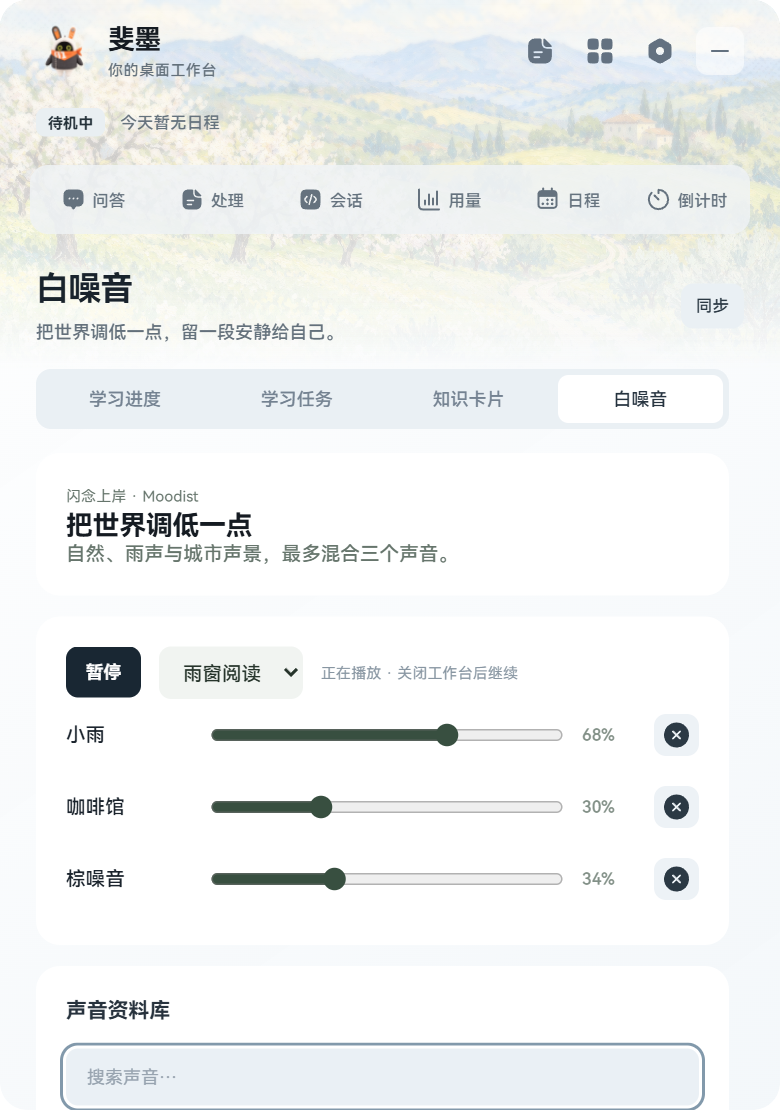
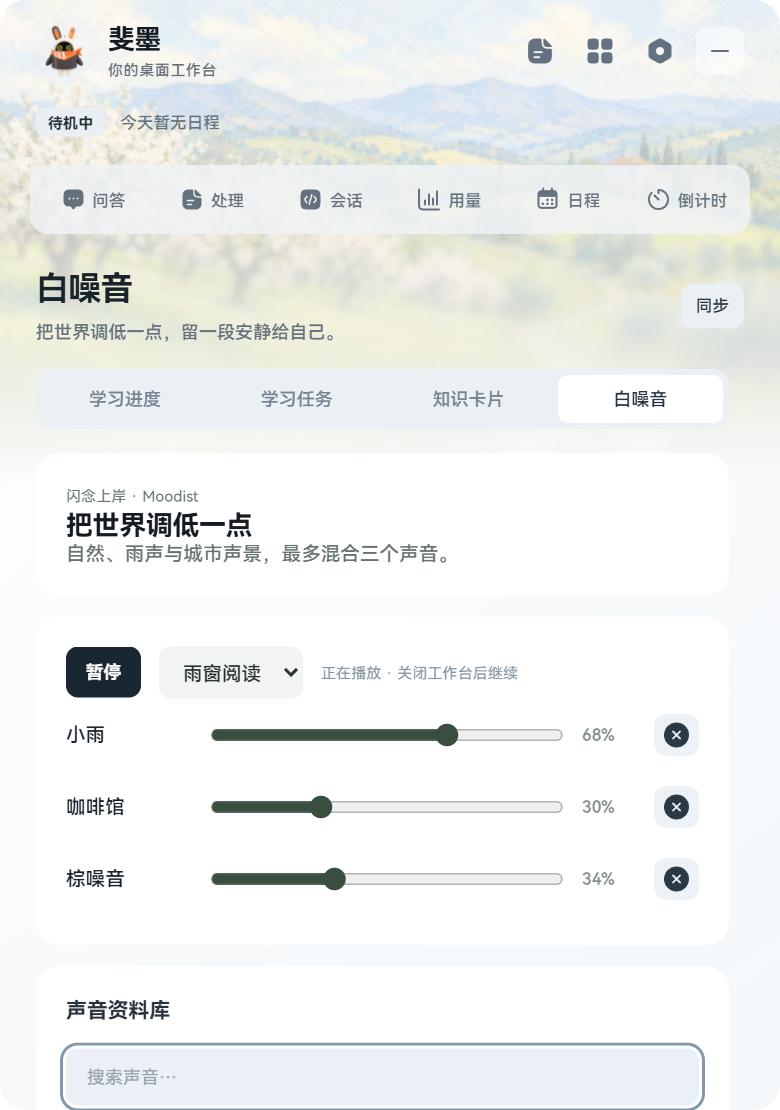
Add progressive header blur, repair packaged OCR and document default UI

Changed region(s): [[0.0, 0.0, 1.0, 0.3676], [0.5846, 0.1838, 0.6462, 0.245], [0.2769, 0.0306, 0.3077, 0.0613]]

diff --git a/lib/ocr.js b/lib/ocr.js
@@ -9,13 +9,15 @@ const fs = require('fs');
 const path = require('path');
 const crypto = require('crypto');
 
-const MAX_DIM = 10000; // Windows OCR MaxImageDimension
+const MAX_DIM = 4096; // Conservative cap; the bridge also validates OcrEngine.MaxImageDimension.
 
 class OcrService {
   constructor({ workDir }) {
     this.workDir = workDir;
     fs.mkdirSync(workDir, { recursive: true });
-    this.script = path.join(__dirname, '..', 'assets', 'scripts', 'ocr.ps1');
+    // Node can read inside app.asar; Windows PowerShell cannot execute that virtual path.
+    this.script = path.join(workDir, 'windows-ocr.ps1');
+    fs.copyFileSync(path.join(__dirname, '..', 'assets', 'scripts', 'ocr.ps1'), this.script);
     // 清理遗留临时文件
     for (const f of fs.readdirSync(workDir)) {
       if (f.startsWith('ocr-')) { try { fs.unlinkSync(path.join(workDir, f)); } catch { /* ignore */ } }
@@ -34,14 +36,13 @@ class OcrService {
       if (!meta.width || !meta.height) {
         throw Object.assign(new Error('无法读取图片：格式不受支持或文件损坏'), { code: 'BAD_IMAGE' });
       }
-      let scale = 1;
-      if (Math.max(meta.width, meta.height) > MAX_DIM) {
-        scale = MAX_DIM / Math.max(meta.width, meta.height);
-      }
-      await img.flatten({ background: '#ffffff' }).png().toFile(inPath);
+      await img.rotate().resize({ width: MAX_DIM, height: MAX_DIM, fit: 'inside', withoutEnlargement: true })
+        .flatten({ background: '#ffffff' }).png().toFile(inPath);
+      const prepared = await sharp(inPath).metadata();
 
       const args = ['-NoProfile', '-NonInteractive', '-ExecutionPolicy', 'Bypass', '-File', this.script,
-        '-ImagePath', inPath, '-OutFile', outPath, '-Lang', lang === 'auto' ? '' : lang];
+        '-ImagePath', inPath, '-OutFile', outPath];
+      if (lang && lang !== 'auto') args.push('-Lang', lang);
       await this._runPowerShell(args);
 
       let raw;
@@ -55,12 +56,12 @@ class OcrService {
         throw err;
       }
       const lines = (result.lines || []).map((l) => ({
-        text: l.text, x: l.x * scale, y: l.y * scale, w: l.w * scale, h: l.h * scale,
+        text: l.text, x: l.x, y: l.y, w: l.w, h: l.h,
       }));
       if (!lines.length) {
         return { ok: true, empty: true, lines: [], language: result.language, note: '未在图片中检测到文字' };
       }
-      return { ok: true, empty: false, lines, language: result.language, width: Math.round(meta.width * scale), height: Math.round(meta.height * scale) };
+      return { ok: true, empty: false, lines, language: result.language, width: prepared.width, height: prepared.height };
     } finally {
       for (const f of [inPath, outPath]) { try { fs.unlinkSync(f); } catch { /* ignore */ } }
     }
@@ -69,7 +70,7 @@ class OcrService {
   _runPowerShell(args) {
     return new Promise((resolve, reject) => {
       execFile('powershell.exe', args, { timeout: 60000, windowsHide: true, maxBuffer: 10 * 1024 * 1024 }, (err) => {
-        if (err) reject(new Error('OCR 调用失败：' + err.message));
+        if (err) reject(Object.assign(new Error(err.killed ? '图片识别超时，请使用更小、更清晰的图片重试' : '本地 OCR 桥接进程无法运行，请检查 Windows PowerShell 是否可用'), { code: err.killed ? 'OCR_TIMEOUT' : 'OCR_BRIDGE' }));
         else resolve();
       });
     });

diff --git a/tests/ocr.test.js b/tests/ocr.test.js
@@ -1,0 +1,18 @@
+'use strict';
+const test=require('node:test'),assert=require('node:assert/strict'),fs=require('node:fs'),os=require('node:os'),path=require('node:path'),sharp=require('sharp');
+const {OcrService}=require('../lib/ocr');
+const temp=()=>fs.mkdtempSync(path.join(os.tmpdir(),'feimo-ocr-test-'));
+test('OCR bridge executes a physical script outside asar and omits empty auto-language arguments',async()=>{
+ const dir=temp();try{const s=new OcrService({workDir:dir});assert.ok(fs.existsSync(s.script));assert.equal(path.dirname(s.script),dir);
+ s._runPowerShell=async args=>{assert.ok(!args.includes('-Lang'));const image=await sharp(args[args.indexOf('-ImagePath')+1]).metadata();assert.equal(image.width,80);fs.writeFileSync(args[args.indexOf('-OutFile')+1],JSON.stringify({ok:true,language:'zh-Hans-CN',lines:[{text:'测试',x:5,y:6,w:20,h:12}]}))};
+ const r=await s.recognize(await sharp({create:{width:80,height:40,channels:4,background:'#fff'}}).png().toBuffer());assert.equal(r.lines[0].text,'测试');assert.equal(r.width,80);assert.deepEqual(fs.readdirSync(dir),['windows-ocr.ps1']);
+ }finally{fs.rmSync(dir,{recursive:true,force:true})}
+});
+test('oversized OCR images really shrink and boxes use prepared image coordinates',async()=>{
+ const dir=temp();try{const s=new OcrService({workDir:dir});s._runPowerShell=async args=>{const meta=await sharp(args[args.indexOf('-ImagePath')+1]).metadata();assert.equal(meta.width,4096);fs.writeFileSync(args[args.indexOf('-OutFile')+1],JSON.stringify({ok:true,lines:[{text:'文字',x:100,y:10,w:30,h:12}]}))};const r=await s.recognize(await sharp({create:{width:5000,height:100,channels:3,background:'#fff'}}).png().toBuffer());assert.equal(r.width,4096);assert.equal(r.lines[0].x,100);
+ }finally{fs.rmSync(dir,{recursive:true,force:true})}
+});
+test('OCR language errors stay distinct from process failures and temporary image data is removed',async()=>{
+ const dir=temp();try{const s=new OcrService({workDir:dir});s._runPowerShell=async args=>{assert.equal(args.at(-1),'en');fs.writeFileSync(args[args.indexOf('-OutFile')+1],JSON.stringify({ok:false,error:'NO_LANGPACK: en'}))};await assert.rejects(s.recognize(await sharp({create:{width:10,height:10,channels:3,background:'#fff'}}).png().toBuffer(),'en'),e=>e.code==='NO_LANGPACK');assert.deepEqual(fs.readdirSync(dir),['windows-ocr.ps1']);
+ }finally{fs.rmSync(dir,{recursive:true,force:true})}
+});

diff --git a/renderer/shared/feimo-design.css b/renderer/shared/feimo-design.css
@@ -1,0 +1,29 @@
+/* Feimo default design primitives. Artwork is separate from all readable content. */
+:root {
+  --feimo-font: "HarmonyOS Sans SC", "HarmonyOS Sans", "Microsoft YaHei UI", system-ui, sans-serif;
+  --feimo-ink: #1b242d;
+  --feimo-secondary: #63707b;
+  --feimo-muted: #87939d;
+  --feimo-surface: #fff;
+  --feimo-canvas: #f5f8fa;
+  --feimo-control: #eaf0f4;
+  --feimo-radius-small: 4px;
+  --feimo-radius-tag: 6px;
+  --feimo-radius-control: 8px;
+  --feimo-radius-group: 12px;
+  --feimo-radius-card: 16px;
+  --feimo-radius-window: 18px;
+  --feimo-radius-sheet: 21px;
+  --feimo-header-image: url('../../assets/soundscape/spring-halftone.png');
+  --feimo-header-bleed: 72px;
+}
+.feimo-progressive-header { position:relative;isolation:isolate;overflow:visible;z-index:0; }
+.feimo-header-art { position:absolute;inset:0 0 calc(-1 * var(--feimo-header-bleed));z-index:-1;pointer-events:none; }
+.feimo-header-art::before { content:"";position:absolute;inset:0;background:var(--feimo-header-image) center 40%/cover no-repeat;opacity:.72;mask-image:linear-gradient(to bottom,#000 0%,rgba(0,0,0,.7) 42%,rgba(0,0,0,.35) 67%,transparent 100%); }
+.feimo-header-art::after { content:"";position:absolute;inset:0;background:linear-gradient(to bottom,rgba(255,255,255,.66),rgba(255,255,255,.5) 55%,transparent);mask-image:linear-gradient(#000,rgba(0,0,0,.6) 65%,transparent);backdrop-filter:blur(1.2px) saturate(.85);-webkit-backdrop-filter:blur(1.2px) saturate(.85); }
+.feimo-blur-layer { position:absolute;inset:0; }
+.feimo-blur-layer.blur-soft { backdrop-filter:blur(2px);-webkit-backdrop-filter:blur(2px);mask-image:linear-gradient(transparent 32%,#000 54%,#000 70%,transparent); }
+.feimo-blur-layer.blur-medium { backdrop-filter:blur(6px);-webkit-backdrop-filter:blur(6px);mask-image:linear-gradient(transparent 52%,#000 74%,#000 87%,transparent); }
+.feimo-blur-layer.blur-deep { backdrop-filter:blur(14px);-webkit-backdrop-filter:blur(14px);mask-image:linear-gradient(transparent 68%,#000 88%,transparent); }
+@supports not (backdrop-filter:blur(2px)) { .feimo-header-art::before { mask-image:linear-gradient(#000,rgba(0,0,0,.25) 60%,transparent); } }
+@media(prefers-reduced-transparency:reduce),(prefers-contrast:more) { .feimo-header-art { display:none; } }

diff --git a/renderer/workbar/workspace.css b/renderer/workbar/workspace.css
@@ -91,13 +91,9 @@ button:active:not(:disabled){transform:scale(.98)}
 @media(max-width:440px){.noise-library-grid{grid-template-columns:repeat(2,minmax(0,1fr))}}
 
 /* Shared by every module: painted header, frosted white veil, transparent lower edge. */
-#workspace-header { flex:none;display:flex;flex-direction:column;position:relative;isolation:isolate;overflow:hidden; }
-#workspace-header::before,#workspace-header::after { content:"";position:absolute;inset:0;z-index:-1;pointer-events:none; }
-#workspace-header::before { background:url('../../assets/soundscape/spring-halftone.png') center 40%/cover no-repeat;opacity:.72;mask-image:linear-gradient(to bottom,#000 0%,rgba(0,0,0,.6) 40%,rgba(0,0,0,.15) 76%,transparent 100%); }
-#workspace-header::after { background:linear-gradient(to bottom,rgba(255,255,255,.66) 0%,rgba(255,255,255,.6) 40%,rgba(255,255,255,.4) 76%,transparent 100%);backdrop-filter:blur(1.2px) saturate(.85);-webkit-backdrop-filter:blur(1.2px) saturate(.85);mask-image:linear-gradient(to bottom,#000 0%,rgba(0,0,0,.75) 40%,rgba(0,0,0,.2) 76%,transparent 100%); }
+#workspace-header { flex:none;display:flex;flex-direction:column; }
 #workspace-header #tabs { background:rgba(239,243,246,.84); }
 #workspace-header #page-title { color:#19232c; }
 #workspace-header #page-subtitle,#workspace-header #brand small { color:#63707b; }
 #workspace-header .next-event { color:#65727d; }
 .label,.focus-label { max-width:100%;overflow:hidden;text-overflow:ellipsis; }
-@media(prefers-reduced-transparency:reduce),(prefers-contrast:more){#workspace-header::before,#workspace-header::after{display:none}}

diff --git a/main.js b/main.js
@@ -784,7 +784,11 @@ function bootstrap() {
       clipboardJobStatus.state = 'failed';
       clipboardJobStatus.error = err.message;
       flash('failed');
-      speak(kind === 'image' ? '图片文字提取失败，请检查 OCR 语言包' : '文字清理失败，请再试一次', { force: true, priority: 4, duration: 6500 });
+      const imageFailure = err.code === 'NO_LANGPACK' ? '缺少所选 OCR 语言包，请在 Windows 设置中添加'
+        : err.code === 'OCR_TIMEOUT' ? '图片识别超时，换张小一点的图片试试'
+        : err.code === 'OCR_BRIDGE' ? '本地图片识别进程未能启动，请重试'
+        : '图片文字提取失败，可以到工作台查看原因并重试';
+      speak(kind === 'image' ? imageFailure : '文字清理失败，请再试一次', { force: true, priority: 4, duration: 6500 });
     } finally {
       clipboardJobBusy = false;
       userProcessing = false;

diff --git a/renderer/workbar/workbar.html b/renderer/workbar/workbar.html
@@ -6,11 +6,13 @@
   <title>斐墨</title>
   <link rel="stylesheet" href="workbar.css" />
   <link rel="stylesheet" href="workspace.css" />
+  <link rel="stylesheet" href="../shared/feimo-design.css" />
   <link rel="stylesheet" href="../../node_modules/katex/dist/katex.min.css" />
 </head>
 <body>
   <div id="panel">
-    <div id="workspace-header">
+    <div id="workspace-header" class="feimo-progressive-header">
+    <div class="feimo-header-art" aria-hidden="true"><span class="feimo-blur-layer blur-soft"></span><span class="feimo-blur-layer blur-medium"></span><span class="feimo-blur-layer blur-deep"></span></div>
     <!-- 标题栏（可拖动） -->
     <div id="titlebar">
       <div class="drag-region"></div>

diff --git a/docs/斐墨-通用UI设计规范.md b/docs/斐墨-通用UI设计规范.md
@@ -1,0 +1,122 @@
+# 斐墨通用 UI 设计规范
+
+文档编号：斐墨-通用UI设计规范  
+项目名称：斐墨及后续网站、App  
+文档内容：默认视觉体系、组件与交互规范  
+生成日期：2026-09-30  
+版本：v01
+
+## 1. 适用与优先级
+
+这是用户确认的后续网站和 App 默认设计。新页面和新增模块采用本规范；用户明确提出的新风格、品牌要求或项目约束优先于默认值。迁移已有项目时保持功能与信息架构，以共享组件逐步统一。
+
+目标是清晰、舒展、轻盈：深色标题、弱化辅助信息、纯白内容卡片、低饱和状态色；一个页面围绕一件主要任务。具体尺寸是本产品约定，并非声称苹果官方指定这些数值。
+
+## 2. 背景与 Header
+
+所有模块共用同一 Header 背景组件，涵盖品牌、状态、主导航、页面标题和说明。使用原创春日田园油画、可见的像素半调细节；禁止给每个内容卡片重复铺满油画。
+
+背景和文字分别分层。背景层 `aria-hidden="true"`、`pointer-events:none`；文字、控件始终在清晰前景层，不对整块 Header 使用 `filter:blur()`。
+
+| 层 | 默认参数 | 要求 |
+| --- | --- | --- |
+| 油画 | `cover`、位置 `center 40%`、不透明度 0.72 | 保留顶部笔触和半调，逐渐淡出 |
+| 白色遮罩 | 顶部白色 alpha 0.66，中段 0.50，底部 0 | 提高可读性，不形成白色硬切线 |
+| 基础毛玻璃 | `blur(1.2px) saturate(.85)` | 保留上部纹理 |
+| Progressive Blur | 重叠的 2 / 6 / 14 px 背景模糊层 | 从 Header 中下部逐步增强，每层使用渐变 mask |
+| 交界延伸 | Header 下方 72 px | 延伸的是装饰背景，不移动或遮挡正文 |
+| 内容底色 | `#f5f8fa` / 纯白卡片 | 与渐隐背景自然融合 |
+
+渐进模糊不能用一整块固定 blur 加透明度替代。参考实现采用 3 个渐变蒙版层，让低、中、高强度模糊在交界处交叠；最下沿所有背景与遮罩归零。正文卡片、二级弹窗与白噪音内容区域保持纯白，不再重复油画背景。
+
+减少透明度、提高对比度时隐藏装饰层；不支持 `backdrop-filter` 时以柔和渐隐背景回退。手机布局可将延伸缩短为 48 px。不得用无限动画改变模糊半径；单个 Header 使用这一套层，避免大量卡片重复高成本滤镜。
+
+实现：[feimo-design.css](../renderer/shared/feimo-design.css)。结构示例：
+
+```html
+<header class="feimo-progressive-header">
+  <div class="feimo-header-art" aria-hidden="true">
+    <span class="feimo-blur-layer blur-soft"></span>
+    <span class="feimo-blur-layer blur-medium"></span>
+    <span class="feimo-blur-layer blur-deep"></span>
+  </div>
+  <!-- 品牌、导航、标题；不参与模糊 -->
+</header>
+```
+
+接入其他项目时复制样式和合法油画素材，并设置 `--feimo-header-image` 的实际路径。背景允许溢出 Header，但由最外层圆角窗口裁切；内容与背景不创建相互遮挡的可点击层。
+
+## 3. 字体与信息层级
+
+- 字体统一为 **HarmonyOS Sans SC / HarmonyOS Sans**；未安装时回退 Microsoft YaHei UI、system-ui、sans-serif。不要混用展示字体或把图片当文字。网页如需随包分发字体，先确认许可；不要依赖用户本机绝对路径。
+- 页面标题：22–28 px、700–750、行高 1.25，`#1b242d`。移动端优先 22–24 px；桌面紧凑工作台当前采用 22 px。
+- 卡片标题：16–20 px、650–700，行高 1.4。
+- 正文：14–16 px，行高 1.65–1.85；紧凑桌面工具允许 13 px。
+- 辅助说明：12–13 px，`#63707b`；时间戳、来源、附件数量：11–12 px、`#87939d`。小字不能承载核心操作或唯一错误说明。
+- 阅读内容通过 Markdown / 富文本安全渲染，支持选中、复制、段落、列表和必要的公式。持续输出不闪烁、不清空已显示内容。
+
+## 4. 色彩
+
+| Token | 默认值 | 用途 |
+| --- | --- | --- |
+| `--feimo-ink` | `#1b242d` | 标题、主操作、主要图标 |
+| `--feimo-secondary` | `#63707b` | 说明与次级控件 |
+| `--feimo-muted` | `#87939d` | 非关键元信息 |
+| `--feimo-surface` | `#fff` | 内容卡片、快捷卡片 |
+| `--feimo-canvas` | `#f5f8fa` | 页面底色 |
+| `--feimo-control` | `#eaf0f4` | 控件组与输入底色 |
+
+一个稳定的深灰主色；标签、状态以轻色背景区分身份。任务色点允许多个柔和颜色，但不把整个按钮染成高饱和色。错误、完成、暂停同时显示文字或图标，不只依靠颜色。常规正文以至少 4.5:1 对比度为目标；元信息弱化不等于不可读。
+
+## 5. 圆角与边缘
+
+| 组件 | 圆角 |
+| --- | --- |
+| 微型内部标记 | 4 px |
+| 紧凑身份标签 | 6 px |
+| 按钮、输入、选项 | 8 px |
+| 分段控件组、导航容器 | 12 px |
+| 内容卡片 | 16 px |
+| 桌面工作台窗口 | 18 px |
+| 快捷二级编辑卡片 | 21 px |
+| 气泡、计时胶囊、底部快捷对话 | 999 px 或高度的一半 |
+| 弧形工具按钮 | 50% |
+
+同类控件固定用一个 token，不能按页面随意改变。圆形、胶囊是明确的形状例外，不能给普通卡片套大胶囊角。必要分隔线可使用 1 px 的浅灰内部线；**悬浮工具、气泡、快捷对话、倒计时小组件、二级卡片不添加外部阴影或矩形底纹**。透明原生窗口要同时关闭系统阴影，窗口背景透明；只裁切可见组件，不使用会产生台阶锯齿的整数像素区域代替圆角抗锯齿。
+
+## 6. 间距与单一任务界面
+
+采用 4 px 节奏：4 / 8 / 12 / 16 / 20 / 24 / 32。卡片 padding 默认 20–24 px，紧凑工具 14–16 px；相邻卡片间距 16 px，控件组内 8–12 px。标题与说明 6–8 px，说明与操作组 16–20 px。
+
+主要操作贴近其结果区域；复制结果位于结果下方，不能放在很长页面的最底部。长功能用清晰子页签分组，避免把所有表单和统计堆在一个视口。正文支持滚动，Header 不挤压到正文无法阅读。长标签截断但保留 title 或详情入口；长知识卡片标题最多三行，正文仍完整展示。
+
+## 7. 图标、控件与反馈
+
+使用 **Reicon Filled**，统一 16 / 20 / 24 px；不得混用 emoji、无关符号和描边图标替代功能图标。装饰标记不占主操作焦点；纯图标按钮提供准确的 aria-label / 提示文字。
+
+网页和移动 App 主操作触控区域推荐至少 44×44 px。紧凑桌面可见圆按钮 28–32 px，但保留合适命中范围与键盘入口。选中、悬停、禁用、加载、错误状态要齐全。AI 请求立即显示状态，再流式显示内容；错误说明区分语言包、图片内容、桥接进程和超时。
+
+## 8. 斐墨悬浮布局
+
+- 宠物中心是弧形工具轨道圆心；工具向左上分布，从宠物中心依次弹出，间距紧凑，支持滚轮翻组。
+- 底部快捷输入居中对齐宠物，宽度不超过宠物与工具整体占用宽度，距离贴近；工具、输入、气泡、计时和编辑卡片互相避让。
+- 气泡位于上方，通过小圆点连接；短内容自适应长度，普通问候每行最多约 15 个汉字。问候离开立即收起，主动通知和回答依其交互生命周期处理。
+- 屏幕边缘和角落按可用空间整体重排，不能只把某个元素硬夹到窗口边缘。计时组件有关闭入口，关闭显示与停止计时分开表达。
+- 普通回复气泡、弧形工具与输入采用同一浅白材质，无阴影；不再使用导致灰色矩形底纹的透明窗口滤镜。
+
+## 9. 动效
+
+按钮反馈 120–180 ms，卡片 / 气泡进入 180–240 ms，弧形展开与翻页 240–320 ms。默认缓动 `cubic-bezier(.2,.8,.2,1)`；工具逐个延迟约 40–60 ms。以 transform 与 opacity 为主，不循环改变布局尺寸。
+
+气泡从下方淡入、向上淡出；分段回答保留可切换的叠层，切换时位置与透明度连续过渡。减少动效设置下取消位移、弹簧与循环动效，但保留状态提示和可操作入口。
+
+## 10. 验收
+
+至少检查桌面与窄窗口、滚动、长标题、空状态、加载、错误、键盘焦点、减少动效 / 透明度；桌宠额外检查四个屏幕角落。Header 交界无硬线，像素纹理上清下柔，正文始终清晰。所有弹层无重叠、无外部灰框，圆角抗锯齿正常；同类字体、圆角、图标一致。截图使用虚构数据，禁止把真实账号、密钥、私密任务带进公开文档。
+
+## 11. 参考与素材
+
+- [Apple Human Interface Guidelines](https://developer.apple.com/design/human-interface-guidelines/)：视觉层级和平台交互的参考入口；本规范的 token 是用户选定的项目约定。
+- [MDN backdrop-filter](https://developer.mozilla.org/en-US/docs/Web/CSS/Reference/Properties/backdrop-filter)：背景滤镜作用于元素后方，注意透明度、mask 与 backdrop root 的层级影响。
+- [原创油画说明与生成提示词](../assets/soundscape/ARTWORK.md)。画面无需重复生成；跨项目可以替换合法授权的同风格素材。
+- [当前参考效果](images/workspace-header.png)。

diff --git a/README.md b/README.md
@@ -75,7 +75,9 @@
 
 ![白噪音快捷卡片：纯白背景、独立音量与预设混音](docs/images/white-noise-card.png)
 
-所有工作台模块共用春日田园油画与像素半调 Header：半透明白色毛玻璃遮罩增强文字可读性，背景与遮罩向下渐隐。白噪音页面与快捷卡片采用纯白背景；快捷卡片沿用 21 px 圆角，不添加外部阴影。音源目录共享自 Moodist，代码为 MIT，音频为 Pixabay / CC0，详见[素材说明](assets/soundscape/MOODIST-LICENSE.txt)。
+所有工作台模块共用春日田园油画与像素半调 Header：半透明白色毛玻璃遮罩增强文字可读性，2 / 6 / 14 px Progressive Blur 逐步模糊并渐隐到下方内容。白噪音页面与快捷卡片采用纯白背景；快捷卡片沿用 21 px 圆角，不添加外部阴影。音源目录共享自 Moodist，代码为 MIT，音频为 Pixabay / CC0，详见[素材说明](assets/soundscape/MOODIST-LICENSE.txt)。
+
+完整视觉规则及接入示例见[斐墨通用 UI 设计规范](docs/斐墨-通用UI设计规范.md)。
 
 ![工作台共用渐隐油画 Header 与纯白声音资料库](docs/images/workspace-header.png)
 

diff --git a/RELEASE_NOTES.md b/RELEASE_NOTES.md
@@ -1,5 +1,13 @@
 # Release notes
 
+## 1.2.3
+
+- Header 采用 2 / 6 / 14 px 分层 Progressive Blur，装饰背景延伸到下方内容起始处，再自然淡出；正文和按钮保持清晰。
+- 修复安装版 OCR 不能执行 `app.asar` 内脚本的问题，改为在本机临时目录执行；自动语言优先已安装中文引擎，并兼容英文。
+- 修复超大图片只计算缩放但未实际缩小、识别框坐标被重复缩放的问题；规范识别位图格式与临时文件清理。
+- 图片识别失败按语言包、进程和超时分别提示，避免把所有故障误报为语言包缺失。
+- 新增通用 UI 设计规范和可复用 CSS 原语，统一背景、圆角、HarmonyOS Sans、Reicon Filled、间距、状态和动效。
+
 ## 1.2.2
 
 - 问答、处理、会话、用量、日程、倒计时、设置、快捷工具与学习空间共用像素半调油画 Header，白色毛玻璃遮罩与画面向下渐隐。

diff --git a/assets/soundscape/ARTWORK.md b/assets/soundscape/ARTWORK.md
@@ -4,4 +4,4 @@
 
 最终提示词：Spring countryside inspired by Vincent van Gogh's oil paintings; rolling green fields, blossoming orchard, rural path and blue hills; short impasto strokes with pixel halftone dot texture; airy cream, sage green and buttery yellow; landscape fills the frame; no lettering, interface, borders, people or logos.
 
-插画用于所有工作台模块共用的 Header。白色毛玻璃遮罩、高斯模糊与从上到下的透明渐变由 CSS 实现，不烘焙在插画中；白噪音内容卡片保持纯白。声音目录共享自闪念上岸与 Moodist，署名和音频许可见 `MOODIST-LICENSE.txt`。
+插画用于所有工作台模块共用的 Header。白色毛玻璃遮罩、2 / 6 / 14 px Progressive Blur 与从上到下的透明渐变由 CSS 实现，不烘焙在插画中；白噪音内容卡片保持纯白。声音目录共享自闪念上岸与 Moodist，署名和音频许可见 `MOODIST-LICENSE.txt`。

diff --git a/AGENTS.md b/AGENTS.md
@@ -1,0 +1,5 @@
+# 斐墨 UI 设计
+
+修改界面前阅读 [斐墨通用 UI 设计规范](docs/斐墨-通用UI设计规范.md)，并优先复用 `renderer/shared/feimo-design.css`。Header 使用原创油画与像素半调、白色毛玻璃遮罩及分层 Progressive Blur；文字独立清晰，主体卡片纯白。统一 HarmonyOS Sans、Reicon Filled、圆角、间距和动效。悬浮气泡、工具、输入、计时和二级卡片无外部阴影或灰色矩形底纹，互不重叠。
+
+用户本次明确的新设计要求优先。验证实际渲染与交互，至少包含窄窗口；安装版故障必须在打包后的程序验证。公开截图使用虚构数据，不包含用户账号、私密任务或凭据。
